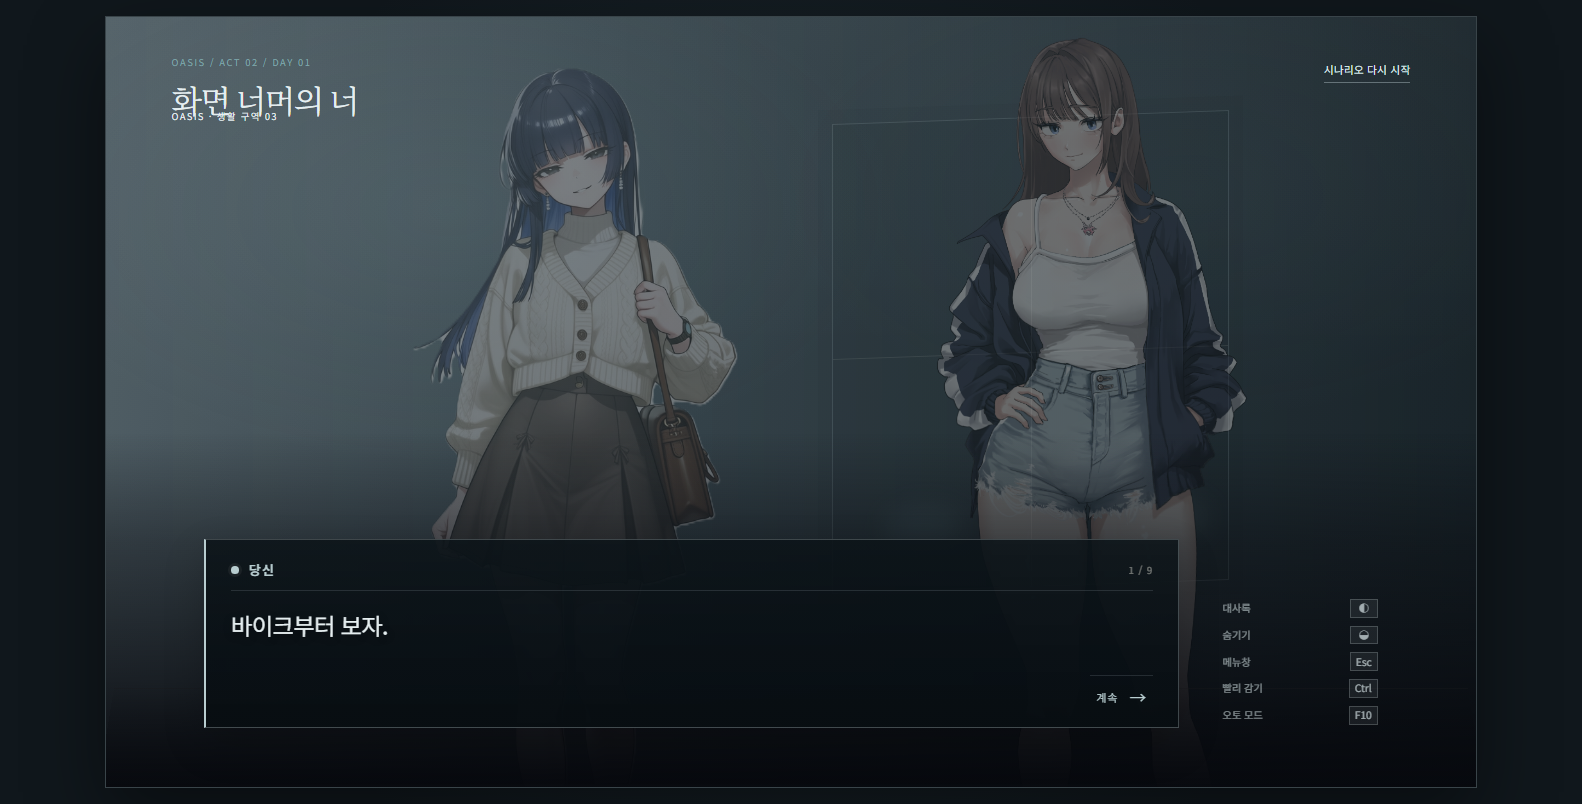
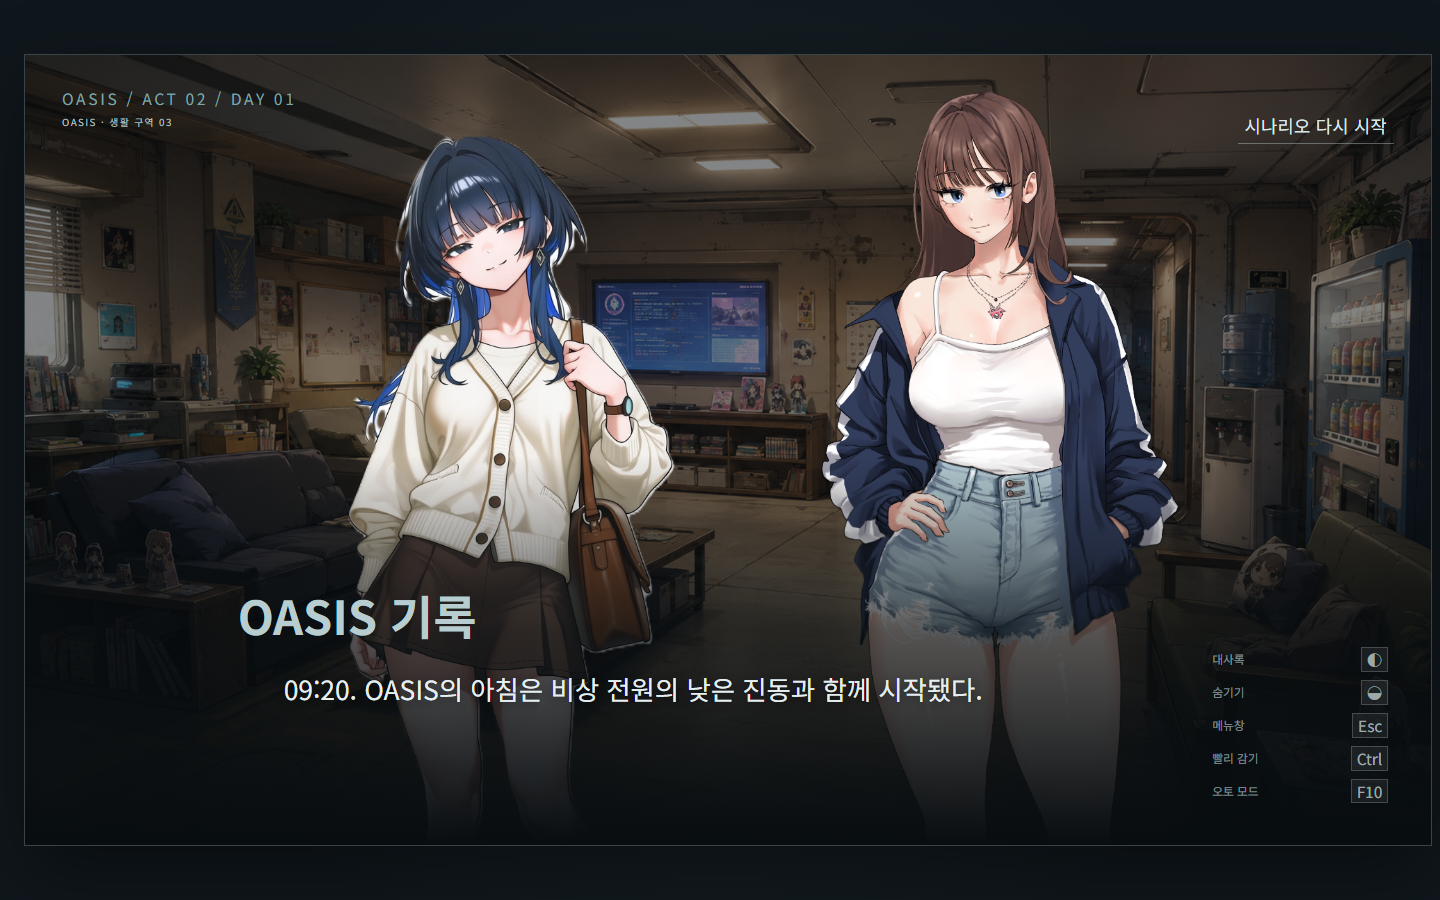
feat: update VN scene layout and assets

diff --git a/src/components/vn/VNScene.tsx b/src/components/vn/VNScene.tsx
@@ -1,4 +1,4 @@
-import type { Dispatch } from "react";
+import type { Dispatch, MouseEvent } from "react";
 import type { GameAction, GameState, Speaker } from "../../types/game";
 
 interface VNSceneProps {
@@ -23,16 +23,21 @@ function speakerLabel(speaker: Speaker): string {
 
 export function VNScene({ state, dispatch, onAdvanceDialogue, disabled = false }: VNSceneProps) {
   const line = state.dialogue[state.dialogueIndex];
-  const isLastLine = state.dialogueIndex >= state.dialogue.length - 1;
   const activeSpeaker = line?.speaker ?? "narrator";
   const assetBaseUrl = import.meta.env.BASE_URL;
+  const advanceDialogue = onAdvanceDialogue ?? (() => dispatch({ type: "ADVANCE_DIALOGUE" }));
+
+  const handleScreenClick = (event: MouseEvent<HTMLElement>) => {
+    if (disabled || (event.target as Element).closest("button, .stage-controls")) return;
+    advanceDialogue();
+  };
 
   return (
-    <main className="vn-shell">
+    <main className="vn-shell" onClick={handleScreenClick}>
       <header className="vn-topbar">
         <div>
           <p className="eyebrow">OASIS / ACT 02 / DAY 01</p>
-          <h1>화면 너머의 너</h1>
+          <p className="stage-label">OASIS · 생활 구역 03</p>
         </div>
         <button
           className="quiet-button"
@@ -44,13 +49,13 @@ export function VNScene({ state, dispatch, onAdvanceDialogue, disabled = false }
         </button>
       </header>
 
-      <section className={`vn-stage vn-stage--${activeSpeaker}`} aria-label="비주얼 노벨 장면">
-        <div className="stage-label">OASIS · 생활 구역 03</div>
-        <div className="stage-window" aria-hidden="true">
-          <span />
-          <span />
-          <span />
-        </div>
+      <section
+        className={`vn-stage vn-stage--${activeSpeaker}`}
+        aria-label="비주얼 노벨 장면"
+        style={{
+          backgroundImage: `linear-gradient(rgba(8, 13, 16, 0.5), rgba(8, 13, 16, 0.5)), url("${assetBaseUrl}assets/backgrounds/oasis-living-area-03.png")`,
+        }}
+      >
         <div
           className={`character character--mira ${
             activeSpeaker === "mira" ? "character--active" : "character--resting"
@@ -65,28 +70,14 @@ export function VNScene({ state, dispatch, onAdvanceDialogue, disabled = false }
         >
           <img src={`${assetBaseUrl}assets/characters/서윤.png`} alt="한서윤" />
         </div>
-        <div className="stage-floor" aria-hidden="true" />
       </section>
 
       <div className="dialogue-layer">
         <div className={`dialogue-box dialogue-box--${activeSpeaker}`}>
           <div className="dialogue-heading">
-            <span className={`speaker-dot speaker-dot--${line?.speaker ?? "narrator"}`} />
             <span>{speakerLabel(line?.speaker ?? "narrator")}</span>
-            <span className="dialogue-progress">
-              {state.dialogueIndex + 1} / {state.dialogue.length}
-            </span>
           </div>
           <p className="dialogue-text">{line?.text}</p>
-          <button
-            className="continue-button"
-            type="button"
-            disabled={disabled}
-            onClick={onAdvanceDialogue ?? (() => dispatch({ type: "ADVANCE_DIALOGUE" }))}
-          >
-            {isLastLine ? "보고서 열기" : "계속"}
-            <span aria-hidden="true">→</span>
-          </button>
         </div>
         <aside className="stage-controls" aria-label="장면 조작 안내">
           <div className="control-row">

diff --git a/src/styles/global.css b/src/styles/global.css
@@ -5574,6 +5574,111 @@ body {
   background: rgba(218, 231, 234, 0.08);
 }
 
+/* Penpot 01: full-scene VN composition with dialogue placed on the vignette. */
+.vn-topbar {
+  padding: 2.29cqw 2.64cqw;
+}
+
+.vn-topbar .eyebrow {
+  margin: 0;
+  font-size: 1.11cqw;
+}
+
+.vn-topbar .stage-label {
+  position: static;
+  margin: 0.42cqw 0 0;
+  color: #b7c1c1;
+  font-size: 0.69cqw;
+}
+
+.vn-topbar .quiet-button {
+  width: 11.11cqw;
+  margin-top: 1.39cqw;
+  font-size: 1.25cqw;
+  text-align: center;
+}
+
+.vn-stage {
+  padding: 0;
+  background-position: center;
+  background-size: cover;
+}
+
+.vn-stage::before {
+  display: none;
+}
+
+.vn-stage::after {
+  height: 49.4%;
+  background: linear-gradient(180deg, rgba(8, 13, 16, 0), rgba(8, 13, 16, 0.68) 45%, #080d10 100%);
+}
+
+.character,
+.character--active,
+.character--resting {
+  opacity: 1;
+  filter: none;
+  transform: none;
+}
+
+.character--mira {
+  left: 9.38%;
+  bottom: -39.5%;
+  height: 135.2%;
+}
+
+.character--seoyun {
+  right: auto;
+  bottom: -45.5%;
+  left: 53.68%;
+  height: 143.95%;
+}
+
+.dialogue-layer {
+  inset: 0;
+  display: block;
+  height: 100%;
+  padding: 0;
+}
+
+.dialogue-box {
+  position: absolute;
+  top: 66.79%;
+  left: 15.14%;
+  width: 62%;
+  padding: 0;
+  border: 0;
+  background: transparent;
+  box-shadow: none;
+}
+
+.dialogue-heading {
+  display: block;
+  padding: 0;
+  border: 0;
+  font-size: 3.33cqw;
+  line-height: 1.35;
+  letter-spacing: 0;
+}
+
+.dialogue-text {
+  min-height: 0;
+  margin: 1.67cqw 0 0 3.26cqw;
+  font-size: 1.875cqw;
+  line-height: 1.5;
+  letter-spacing: 0;
+}
+
+.stage-controls {
+  position: absolute;
+  top: 74.94%;
+  left: 84.44%;
+  display: grid;
+  width: 12.5%;
+  margin: 0;
+  font-size: 0.83cqw;
+}
+
 .report-topbar {
   border-bottom-color: var(--plan-line);
   background: #161f24;
